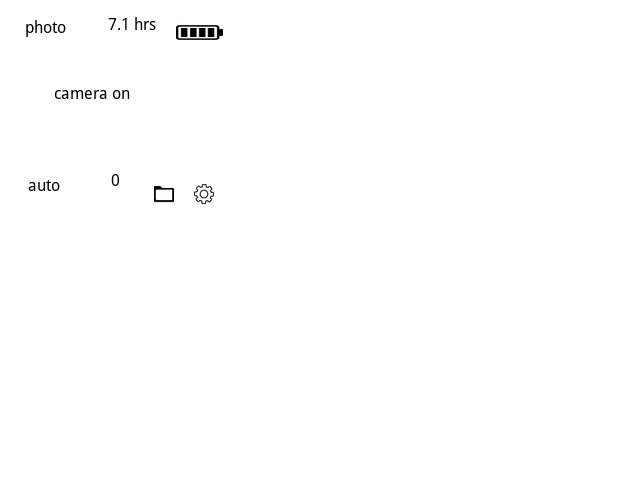
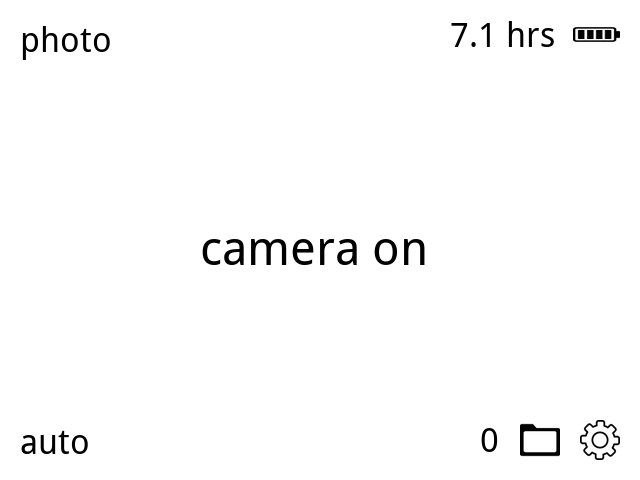
progress

diff --git a/src/menu_walker.py b/src/menu_walker.py
@@ -7,8 +7,8 @@ from PIL import Image, ImageDraw, ImageFont, ImageColor
 
 
 display = [640, 480]
-small_font = ImageFont.truetype("./menu/font/alt-font.ttc", 13)
-large_font = ImageFont.truetype("./menu/font/alt-font.ttc", 16)
+small_font = ImageFont.truetype("./menu/font/alt-font.ttc", 34)
+large_font = ImageFont.truetype("./menu/font/alt-font.ttc", 48)
 
 # render menu image in same path
 def render_page(page_config_path):
@@ -23,7 +23,7 @@ def render_page(page_config_path):
           (item["location"][0], item["location"][1]),
           item["text"],
           fill="BLACK",
-          font=large_font
+          font=small_font if item["font_size"] == "small" else large_font
         )
 
       if item["type"] == "sprite":

diff --git a/DEVLOG.md b/DEVLOG.md
@@ -11,7 +11,7 @@
 - [ ] splash screen
 - [ ] battery charged
 - [ ] home
-  - [ ] camera settings
+  - [x] camera settings
   - [ ] toggle mode
     - [ ] tap to record
   - [ ] files
@@ -56,7 +56,13 @@ I think one of the hard things is the snapping/you'd need a grid thing but reall
 
 It's just one of those things, the time to make it, takes as long to manually write these out... but I think it will be a necessity at some point because writing JSON files manually to describe each menu page is pretty brutal
 
+4:24 PM
 
+Yeah that menu designer thing will have to be made as it would account for things like outer padding (20px right now) and space between things
+
+4:29 PM
+
+Damn... 1 down
 
 ---
 
